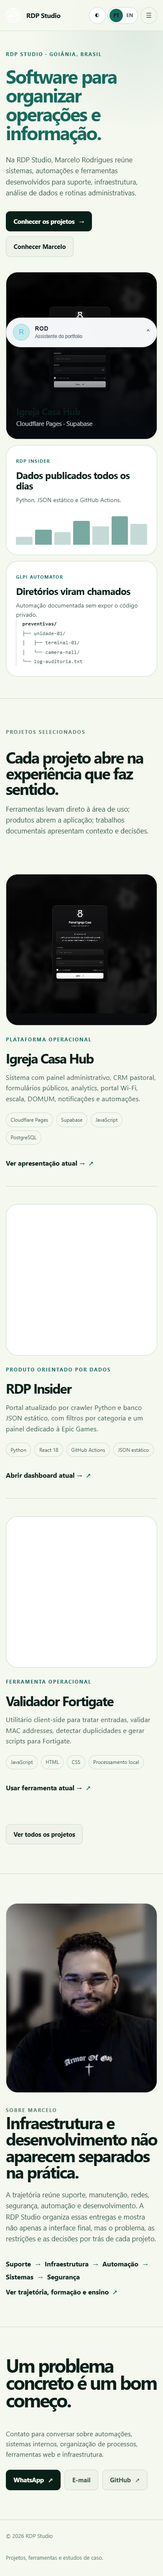
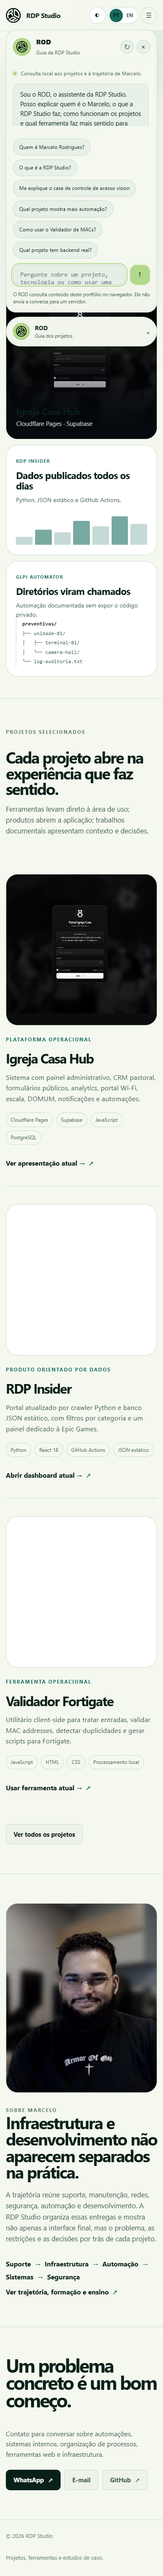
feat(rod): align assistant with green brand

Changed region(s): [[0.0308, 0.0, 0.9846, 0.1559]]

diff --git a/assets/js/rod-assistant.js b/assets/js/rod-assistant.js
@@ -399,22 +399,27 @@ class RodAssistant {
     const nudge = createElement('div', 'rod-nudge')
     const toggle = createElement('button', 'rod-toggle')
     toggle.type = 'button'
+    toggle.setAttribute('aria-expanded', 'false')
+    toggle.setAttribute('aria-controls', 'rod-panel')
+    toggle.setAttribute('aria-label', `Abrir ${knowledge.assistant.name}`)
     toggle.innerHTML = `
-      <span class="rod-toggle-badge" aria-hidden="true">R</span>
+      <span class="rod-toggle-badge" aria-hidden="true"><img class="rod-brand-logo" src="../assets/images/branding/logo.png" alt=""></span>
       <span class="rod-toggle-text">
         <span class="rod-toggle-title">${knowledge.assistant.name}</span>
-        <span class="rod-toggle-subtitle">Assistente do portfolio</span>
+        <span class="rod-toggle-subtitle">Guia dos projetos</span>
       </span>
-      <span aria-hidden="true">⌃</span>
+      <span class="rod-toggle-arrow" aria-hidden="true">⌃</span>
     `
 
+    panel.id = 'rod-panel'
+    panel.setAttribute('aria-label', `${knowledge.assistant.name} — guia da RDP Studio`)
     panel.innerHTML = `
       <header class="rod-header">
         <div class="rod-header-title">
-          <div class="rod-avatar" aria-hidden="true">R</div>
+          <div class="rod-avatar" aria-hidden="true"><img class="rod-brand-logo" src="../assets/images/branding/logo.png" alt=""></div>
           <div class="rod-title-copy">
             <h3>${knowledge.assistant.name}</h3>
-            <p>${knowledge.assistant.title}</p>
+            <p>Guia da RDP Studio</p>
           </div>
         </div>
         <div class="rod-header-actions">
@@ -423,15 +428,15 @@ class RodAssistant {
         </div>
       </header>
       <div class="rod-body">
-        <div class="rod-status"><span class="rod-status-dot"></span> Linguagem natural local com busca fuzzy e base de conhecimento do portfolio.</div>
-        <div class="rod-messages custom-scrollbar" data-rod-messages></div>
+        <div class="rod-status"><span class="rod-status-dot"></span> Consulta local aos projetos e à trajetória de Marcelo.</div>
+        <div class="rod-messages custom-scrollbar" data-rod-messages aria-live="polite" aria-relevant="additions"></div>
         <div class="rod-actions" data-rod-actions></div>
         <div class="rod-suggestions" data-rod-suggestions></div>
         <div class="rod-input-row">
-          <textarea class="rod-input custom-scrollbar" rows="1" placeholder="Pergunte sobre voce, RDP Studio, ferramentas, stack ou como usar um projeto..." data-rod-input></textarea>
+          <textarea class="rod-input custom-scrollbar" rows="1" aria-label="Pergunta para o ROD" placeholder="Pergunte sobre um projeto, tecnologia ou como usar uma ferramenta" data-rod-input></textarea>
           <button type="button" class="rod-send" data-rod-send aria-label="Enviar pergunta">↑</button>
         </div>
-        <div class="rod-footer-note">Dica: o ROD entende erros de digitacao, nomes de projetos e perguntas abertas. Se eu puder te guiar, eu mostro um botao de tour.</div>
+        <div class="rod-footer-note">O ROD consulta conteúdo deste portfólio no navegador. Ele não envia a conversa para um servidor.</div>
       </div>
     `
 
@@ -469,9 +474,18 @@ class RodAssistant {
   bindEvents() {
     const { toggle, panel, input, send, close, clear } = this.elements
 
-    toggle.addEventListener('click', () => panel.classList.toggle('is-open'))
+    toggle.addEventListener('click', () => {
+      const open = panel.classList.toggle('is-open')
+      toggle.setAttribute('aria-expanded', String(open))
+      toggle.setAttribute('aria-label', `${open ? 'Fechar' : 'Abrir'} ${this.engine.knowledge.assistant.name}`)
+      if (open) window.setTimeout(() => input.focus(), 60)
+    })
     toggle.addEventListener('click', () => this.elements.nudge.classList.remove('is-visible'))
-    close.addEventListener('click', () => panel.classList.remove('is-open'))
+    close.addEventListener('click', () => {
+      panel.classList.remove('is-open')
+      toggle.setAttribute('aria-expanded', 'false')
+      toggle.focus()
+    })
     clear.addEventListener('click', () => {
       this.elements.messages.innerHTML = ''
       this.elements.actions.innerHTML = ''
@@ -484,6 +498,13 @@ class RodAssistant {
       if (event.key === 'Enter' && !event.shiftKey) {
         event.preventDefault()
         this.handleSubmit()
+      }
+    })
+    document.addEventListener('keydown', event => {
+      if (event.key === 'Escape' && panel.classList.contains('is-open')) {
+        panel.classList.remove('is-open')
+        toggle.setAttribute('aria-expanded', 'false')
+        toggle.focus()
       }
     })
   }
@@ -511,15 +532,10 @@ class RodAssistant {
     this.elements.messages.appendChild(typing)
     this.elements.messages.scrollTop = this.elements.messages.scrollHeight
 
-    await new Promise(resolve => setTimeout(resolve, 420))
+    await new Promise(resolve => setTimeout(resolve, 180))
 
     typing.remove()
-    const bubble = this.addMessage('', 'bot')
-    for (const char of text) {
-      bubble.textContent += char
-      this.elements.messages.scrollTop = this.elements.messages.scrollHeight
-      await new Promise(resolve => setTimeout(resolve, char === '\n' ? 4 : 7))
-    }
+    this.addMessage(text, 'bot')
 
     this.renderActions(actions)
     this.renderSuggestions(suggestions)

diff --git a/assets/css/rod-assistant.css b/assets/css/rod-assistant.css
@@ -406,3 +406,159 @@
         transition: none;
     }
 }
+
+/* ROD aligned with the RDP Studio green identity */
+.rod-shell {
+    font-family: Manrope, "Segoe UI Variable", "Segoe UI", ui-sans-serif, system-ui, sans-serif;
+}
+
+.rod-toggle,
+.rod-panel,
+.rod-nudge {
+    background: rgba(6, 22, 17, 0.97);
+    border-color: rgba(178, 217, 139, 0.2);
+    color: #f2f7f2;
+}
+
+.rod-toggle {
+    box-shadow: 0 24px 60px -35px rgba(22, 107, 93, 0.75);
+}
+
+.rod-toggle:hover,
+.rod-toggle:focus-visible {
+    border-color: #b2d98b;
+    box-shadow: 0 22px 55px -30px rgba(178, 217, 139, 0.55);
+}
+
+.rod-toggle-badge,
+.rod-avatar {
+    background: #166b5d;
+    border-color: rgba(178, 217, 139, 0.36);
+    color: #b2d98b;
+    overflow: hidden;
+}
+
+.rod-brand-logo {
+    width: 68%;
+    height: 68%;
+    display: block;
+    object-fit: contain;
+}
+
+.rod-header {
+    border-color: rgba(178, 217, 139, 0.14);
+}
+
+.rod-title-copy h3,
+.rod-bubble.user {
+    color: #f2f7f2;
+}
+
+.rod-toggle-subtitle,
+.rod-title-copy p,
+.rod-status,
+.rod-footer-note {
+    color: #a9c0b1;
+}
+
+.rod-status-dot {
+    background: #b2d98b;
+    box-shadow: 0 0 0 5px rgba(178, 217, 139, 0.12);
+}
+
+.rod-bubble.bot,
+.rod-action.secondary,
+.rod-suggestion,
+.rod-input,
+.rod-icon-btn {
+    background: rgba(178, 217, 139, 0.055);
+    border-color: rgba(178, 217, 139, 0.14);
+    color: #dce9df;
+}
+
+.rod-bubble.user {
+    background: #166b5d;
+    border-color: rgba(178, 217, 139, 0.24);
+}
+
+.rod-action,
+.rod-send {
+    background: #b2d98b;
+    border-color: #b2d98b;
+    color: #061611;
+}
+
+.rod-action:hover,
+.rod-send:hover,
+.rod-suggestion:hover {
+    border-color: #b2d98b;
+    filter: brightness(1.04);
+}
+
+.rod-input:focus {
+    outline: 2px solid #b2d98b;
+    outline-offset: 2px;
+}
+
+.rod-toggle-arrow {
+    transition: transform .2s ease;
+}
+
+.rod-toggle[aria-expanded="true"] .rod-toggle-arrow {
+    transform: rotate(180deg);
+}
+
+[data-theme="light"] .rod-toggle,
+[data-theme="light"] .rod-panel,
+[data-theme="light"] .rod-nudge {
+    background: rgba(244, 248, 239, 0.99);
+    border-color: rgba(22, 107, 93, 0.2);
+    color: #092019;
+}
+
+[data-theme="light"] .rod-toggle-badge,
+[data-theme="light"] .rod-avatar {
+    background: #b2d98b;
+    border-color: rgba(6, 22, 17, 0.16);
+}
+
+[data-theme="light"] .rod-brand-logo {
+    content: url("../images/branding/logo-black.png");
+}
+
+[data-theme="light"] .rod-title-copy h3,
+[data-theme="light"] .rod-bubble.bot,
+[data-theme="light"] .rod-action.secondary,
+[data-theme="light"] .rod-suggestion,
+[data-theme="light"] .rod-input,
+[data-theme="light"] .rod-icon-btn {
+    color: #092019;
+}
+
+[data-theme="light"] .rod-toggle-subtitle,
+[data-theme="light"] .rod-title-copy p,
+[data-theme="light"] .rod-status,
+[data-theme="light"] .rod-footer-note {
+    color: #405b4e;
+}
+
+[data-theme="light"] .rod-bubble.bot,
+[data-theme="light"] .rod-action.secondary,
+[data-theme="light"] .rod-suggestion,
+[data-theme="light"] .rod-input,
+[data-theme="light"] .rod-icon-btn {
+    background: rgba(22, 107, 93, 0.055);
+    border-color: rgba(22, 107, 93, 0.16);
+}
+
+[data-theme="light"] .rod-bubble.user {
+    background: #166b5d;
+    color: #fff;
+}
+
+[data-theme="contrast"] .rod-toggle,
+[data-theme="contrast"] .rod-panel,
+[data-theme="contrast"] .rod-nudge {
+    background: #020806;
+    border-color: #71917e;
+}

diff --git a/assets/css/rdp-project-shell.css b/assets/css/rdp-project-shell.css
@@ -18,3 +18,4 @@ html[data-theme="contrast"] .rdp-global-bar{background:#020806;border-color:#719
 html[data-theme="contrast"] .rdp-project-page :is(.text-cyan-300,.text-cyan-400,.text-blue-300,.text-blue-400,.text-emerald-300,.text-emerald-400){color:#c9f29f!important}
 html[data-theme="contrast"] .rdp-project-page :is(.bg-slate-950,.bg-slate-900,.bg-slate-800){background-color:#061611!important}
 @media(max-width:760px){.rdp-theme-picker summary{width:34px;padding:0;justify-content:center}.rdp-theme-picker summary [data-rdp-theme-current]{display:none}.rdp-lang-switch button{min-width:30px}}
+html[data-theme="light"] .rdp-global-brand img{content:url("../images/branding/logo-black.png")}

diff --git a/assets/css/rdp-rebrand.css b/assets/css/rdp-rebrand.css
@@ -88,6 +88,7 @@ img { max-width: 100%; display: block; }
 .header-inner { height: 100%; display: flex; align-items: center; justify-content: space-between; gap: 2rem; }
 .brand { display: flex; align-items: center; gap: .8rem; font-weight: 760; letter-spacing: -.02em; }
 .brand img { width: 36px; height: 36px; object-fit: contain; }
+html[data-theme="light"] .brand img { content: url("../images/branding/logo-black.png"); }
 .brand-copy { display: flex; flex-direction: column; line-height: 1.08; }
 .brand-copy small { color: var(--muted); font-size: .66rem; font-weight: 620; letter-spacing: .14em; text-transform: uppercase; }
 .nav { display: flex; align-items: center; gap: 1.45rem; }
